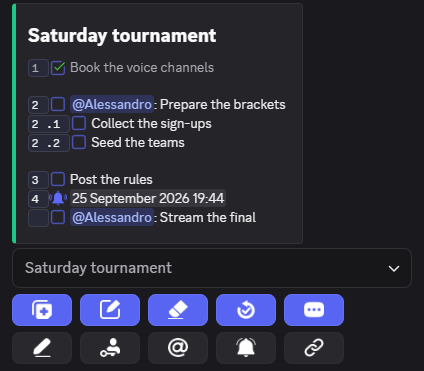
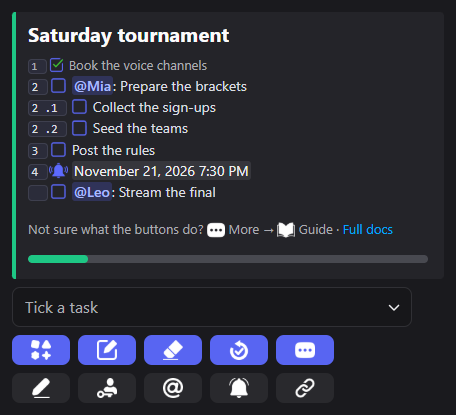
Schermate della lista rifatte con la barra e i Tips
list-desktop.png e list-mobile.png (Getting started e scheda d'anteprima
della home) erano del 25/09: senza la barra di avanzamento, senza la riga
dei Tips, col titolo nel menu al posto di «Tick a task» e con la prima
riga di prima della 2.0.0. Rifatte dalla scena del canale della demo, con
la lista d'esempio della pagina: la riga dei Tips aggiunta com'è nel bot
(tasklist.tips.line), l'embed largo quanto la barra.

list-mobile.png ora è un PNG vero (prima era un JPEG col nome .png).
Misure e testo alternativo aggiornati in getting-started.md.

Claude-Session: https://claude.ai/code/session_01HVYSYK2TUzx2ro9DRC6z5Q

diff --git a/src/content/docs/getting-started.md b/src/content/docs/getting-started.md
@@ -47,8 +47,8 @@ Mentions, owners, links and reminders can be written in the text too: see [Writi
 Submit the form, and the list appears in the channel. Here is the same list after a few steps. The first task is ticked, *Prepare the brackets* has an owner and *Stream the final* has a reminder.
 
 <picture class="screen">
-  <source media="(max-width: 640px)" srcset="/screens/list-mobile.png" width="946" height="1048" />
-  <img src="/screens/list-desktop.png" width="424" height="371" loading="lazy" alt="The Saturday tournament list in Discord: six numbered tasks with checkboxes. The first is ticked and greyed out; Prepare the brackets has two subtasks and an owner; Stream the final has an owner and a reminder date. Below the list are the drop-down menu, showing the list's title, and two rows of buttons." />
+  <source media="(max-width: 640px)" srcset="/screens/list-mobile.png" width="803" height="1108" />
+  <img src="/screens/list-desktop.png" width="456" height="415" loading="lazy" alt="The Saturday tournament list in Discord: six numbered tasks with checkboxes. The first is ticked and greyed out; Prepare the brackets has two subtasks and an owner; Stream the final has an owner and a reminder date. Under the tasks, a small line points to More, Guide and the full docs, and a green bar shows how much is done. Below the list are the drop-down menu, Tick a task, and two rows of buttons." />
 </picture>
 
 Rather learn by doing? Next to **Create your list** there's a **Tutorial** button: it turns the explanation into a practice list of seven lessons, in your language, and sends you the Guide, the same one you'll find in **More** → **Guide**, in a message only you can see. Do the lessons in order: each one asks you to do something to itself, and names the button with its icon. Tick it, give it an owner and a reminder, change its text, delete it, tick it in Activity mode. The practice list is a normal list: like any new list, it needs a free place on your plan (see [How the three places work](/docs/premium/#how-the-three-places-work)), and you can delete it from **More** → **Delete list** when you're done.
